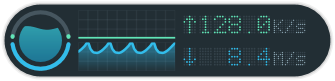
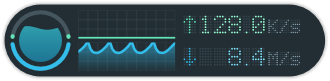
fix: narrow floating decimal cells and brighten numeric lamps
Use a centered 3x7 decimal cell and remove its two spare columns from
readout and window width. Increase numeric lamp luminance while retaining
fixed glyph anchors, ring/chart geometry and subdued unlit lamps.

Cover the 21 decimal lamps and brighter digits in renderer tests, refresh
visual evidence, and pass all eight Release CTest targets.

diff --git a/src/WinMon/FloatingRateRenderer.cpp b/src/WinMon/FloatingRateRenderer.cpp
@@ -15,7 +15,7 @@ constexpr float kRingRadius = (kRingDiameter - kRingStroke) / 2;
 float BodyRight(float progress) noexcept
 {
     const float chartRight = 27 + (kChartLeft + kChartWidth - 20) * kContentScale;
-    const float textRight = 27 + (126 - 20) * kContentScale;
+    const float textRight = 27 + (126 - 2 * 1.05f - 20) * kContentScale;
     return chartRight + 15 + (textRight - chartRight) * progress;
 }
 
@@ -350,15 +350,18 @@ bool FloatingRateRenderer::Render(const std::wstring& upload, const std::wstring
             {
                 const float pitch = cell < 6 ? 1.05f : 0.8f;
                 const auto* glyph = punctum::Find(characters[cell]);
+                const bool decimal = characters[cell] == L'.';
+                const int columns = decimal ? 3 : 5;
                 for (int row = 0; row < 7; ++row)
-                    for (int column = 0; column < 5; ++column)
+                    for (int column = 0; column < columns; ++column)
                     {
-                        const bool lit = glyph && (glyph->rows[row] & (1 << column));
-                        color(lit ? (cell < 6 ? rgb : 0x849da9) : 0x34424a, textProgress);
+                        const bool lit = glyph && (glyph->rows[row] & (1 << (column + (decimal ? 1 : 0))));
+                        const UINT32 digitColor = rgb == 0x61e5b7 ? 0x9affd4 : 0x80e4ff;
+                        color(lit ? (cell == 0 ? rgb : cell < 6 ? digitColor : 0x849da9) : 0x34424a, textProgress);
                         target_->FillEllipse(D2D1::Ellipse(D2D1::Point2F(x + column * pitch, baseline - (6 - row) * pitch),
                             pitch * 0.36f, pitch * 0.36f), brush_.Get());
                     }
-                x += 4 * pitch + ((cell == 0 || cell == 5) ? 2 * 1.05f : 1.5f * pitch);
+                x += (columns - 1) * pitch + ((cell == 0 || cell == 5) ? 2 * 1.05f : 1.5f * pitch);
             }
         };
         if (textProgress > 0) readout(upCells, 23.8f, 0x61e5b7);

diff --git a/tests/FloatingRateRendererTests/FloatingRateRendererTests.cpp b/tests/FloatingRateRendererTests/FloatingRateRendererTests.cpp
@@ -32,7 +32,7 @@ void SaveBitmap(const FloatingRateRenderer& renderer, const std::filesystem::pat
 }
 int main(int argc, char** argv)
 {
-    Require(FloatingRateRenderer::SizeForDpi(96).cx == 223 && FloatingRateRenderer::SizeForDpi(96).cy == 54,
+    Require(FloatingRateRenderer::SizeForDpi(96).cx == 220 && FloatingRateRenderer::SizeForDpi(96).cy == 54,
         "original ring and readable LED cells widen the window without changing height");
     FloatingRateRenderer renderer;
     const auto render = [&] { Require(renderer.Render(L"0.0 K/s", L"0.0 K/s", 96, 0.3, 0), "render"); };
@@ -139,6 +139,19 @@ int main(int argc, char** argv)
             const DWORD reserved=renderer.Pixels()[y*renderer.PixelSize().cx+leadingX];
             Require(reserved!=0xff222e34 && ((reserved>>8)&255)<100, "reserved integer cell has 35 dark lamps and no leading zero");
         }
+    for (int row = 0; row < 7; ++row)
+        for (int column = 0; column < 3; ++column)
+        {
+            const int x = static_cast<int>((27 + (100.625f + column * 1.05f - 20) * (37.0f * 12 / 11 / 24)) * 4);
+            const int y = static_cast<int>((27 + (23.8f - (6 - row) * 1.05f - 27) * (37.0f * 12 / 11 / 24)) * 4);
+            const DWORD pixel = renderer.Pixels()[y * renderer.PixelSize().cx + x];
+            Require(pixel != 0xff222e34, "decimal owns 21 lamps in a 3x7 cell");
+            Require((((pixel >> 8) & 255) > 100) == (row == 6 && column == 1), "decimal lights only its middle baseline lamp");
+        }
+    const int brightX = static_cast<int>((27 + (95.9f - 20) * (37.0f * 12 / 11 / 24)) * 4);
+    const int brightY = static_cast<int>((27 + (17.5f - 27) * (37.0f * 12 / 11 / 24)) * 4);
+    Require(((renderer.Pixels()[brightY * renderer.PixelSize().cx + brightX] >> 8) & 255) > 245,
+        "numeric bright lamps have stronger luminance than the original green");
     for(wchar_t digit=L'0';digit<=L'9';++digit)
         for(wchar_t unit : {L'K',L'M',L'G'})
         {

diff --git a/CONTEXT.md b/CONTEXT.md
@@ -13,9 +13,9 @@ The two-line Upload/Download Rate text embedded on the primary bottom taskbar on
 _Avoid_: taskbar window, widget, HUD, overlay (unless contrasting implementation), main UI
 
 **Floating Rate Display**:
-An optional, borderless, always-on-top dark capsule, approximately 217x48 DIP with speed text shown. Green upload and blue download semicircles fill symmetrically from their left and right ends toward the top/bottom midpoint. Their outer diameter and each chart's clip width have an exact 5:8 ratio. Independent, aligned upper/lower continuous trends have faint grids, clipped gradient fills, a 1.5 DIP center gap, and 32 real Rate Samples sharing the recent peak scale (minimum 1000 bytes/s, smoothing 0.35). The inner traveling water wave uses activity-dependent 2200–1000ms periods and a 15%–80% target level; idle water drains to zero. A shared approximately 30 FPS native timer animates water and text visibility without adding samples; hidden and settled idle displays stop it, and disabled Windows animations use static endpoints.
+An optional, borderless, always-on-top dark capsule, approximately 214x48 DIP with speed text shown. Green upload and blue download semicircles fill symmetrically from their left and right ends toward the top/bottom midpoint. Their outer diameter and each chart's clip width have an exact 5:8 ratio. Independent, aligned upper/lower continuous trends have faint grids, clipped gradient fills, a 1.5 DIP center gap, and 32 real Rate Samples sharing the recent peak scale (minimum 1000 bytes/s, smoothing 0.35). The inner traveling water wave uses activity-dependent 2200–1000ms periods and a 15%–80% target level; idle water drains to zero. A shared approximately 30 FPS native timer animates water and text visibility without adding samples; hidden and settled idle displays stop it, and disabled Windows animations use static endpoints.
 
-Each readout uses nine fixed Punctum LED cells (arrow, three right-aligned integer cells, decimal point, fraction, three unit cells). Every cell has 35 round lamps, including dim leading numeric cells; gaps have no lamps. Embedded OFL glyph masks render independently of Rate Font, without font installation. Values beyond the three-digit capacity saturate at 999.9 in the core-selected unit, leaving Rate Strip formatting unchanged. Show Floating Speed Text fades both complete readouts and their dim lamps while narrowing the actual capsule to ring and unchanged charts; showing restores width. Transitions use reversible ease-out cubic, 220ms hiding/180ms showing, and share the water timer. The current body and separate input-transparent shadow resize together, retaining fixed chart geometry and DPI scaling. The surface has no taskbar or Alt-Tab entry, drags without activation, and opens the Operator Menu on right-click. It remains available while the Rate Strip is hidden. Network changes reset graphical history/activity. Visibility, text visibility and desktop position persist; first use or an unusable restored position uses the primary work area's upper-right corner. Expansion constrains the changing geometry to the monitor work area.
+Each readout uses nine fixed Punctum LED cells (arrow, three right-aligned integer cells, decimal point, fraction, three unit cells). The decimal cell has 21 round lamps (3x7); the other cells have 35 (5x7), including dim leading numeric cells; gaps have no lamps. Embedded OFL glyph masks render independently of Rate Font, without font installation. Values beyond the three-digit capacity saturate at 999.9 in the core-selected unit, leaving Rate Strip formatting unchanged. Show Floating Speed Text fades both complete readouts and their dim lamps while narrowing the actual capsule to ring and unchanged charts; showing restores width. Transitions use reversible ease-out cubic, 220ms hiding/180ms showing, and share the water timer. The current body and separate input-transparent shadow resize together, retaining fixed chart geometry and DPI scaling. The surface has no taskbar or Alt-Tab entry, drags without activation, and opens the Operator Menu on right-click. It remains available while the Rate Strip is hidden. Network changes reset graphical history/activity. Visibility, text visibility and desktop position persist; first use or an unusable restored position uses the primary work area's upper-right corner. Expansion constrains the changing geometry to the monitor work area.
 
 _Avoid_: floating window, dashboard, overlay, main window
 

diff --git a/docs/adr/0008-floating-rate-display.md b/docs/adr/0008-floating-rate-display.md
@@ -6,4 +6,4 @@ The display uses Direct2D software rendering into a per-pixel-alpha layered wind
 
 Rate Samples remain once per second. A separate approximately 30 FPS timer animates traveling water and reversible text-width transitions, stopping when idle with no transition or when hidden, and respecting Windows' animation preference. Reusable glyph data, sample geometry, shadow pixels and presentation buffers keep animation frames from rebuilding unchanged resources; combined preview pixels are generated only when requested.
 
-Extension (2026-10-11; [spec](../../.scratch/floating-led-display/spec.md)): semicircles fill from both endpoints, trends use independent clipped regions and a 32-sample scale, and chart width is exactly 1.6 times outer ring diameter at every DPI and visibility state. Each readout has nine fixed 35-lamp cells, capacity 999.9. Show Floating Speed Text resizes both actual layered windows while fading all lamps, using the existing native animation timer and Windows animation preference. It replaces the previous shared-font and hover-readout conventions.
+Extension (2026-10-11; [spec](../../.scratch/floating-led-display/spec.md)): semicircles fill from both endpoints, trends use independent clipped regions and a 32-sample scale, and chart width is exactly 1.6 times outer ring diameter at every DPI and visibility state. Each readout has nine fixed cells, capacity 999.9: the decimal uses 21 lamps (3x7), other cells use 35 (5x7). Show Floating Speed Text resizes both actual layered windows while fading all lamps, using the existing native animation timer and Windows animation preference. It replaces the previous shared-font and hover-readout conventions.

diff --git a/README.md b/README.md
@@ -85,7 +85,7 @@ build/Release/WinMon.exe
 
 - 深色胶囊左侧为绿／蓝上下半环，从各自左右端同时向中点填充；内部水波按网络相对活动改变速度和水位。
 - 上传／下载连续曲线分区排列，带淡网格与渐变，严格限制在各自区域内。圆环外径与图表宽度保持 5:8，显示最近 32 次采样。
-- 读数采用内置 Punctum 点阵，每行九个固定字符位，每格 35 盏亮／暗圆灯。数值上限为 999.9，超出时按当前单位饱和显示；任务栏格式化不受影响。
+- 读数采用内置 Punctum 点阵，每行九个固定字符位，小数点为 3×7（21 盏灯），其他字符为 5×7（35 盏灯）。数值上限为 999.9，超出时按当前单位饱和显示；任务栏格式化不受影响。
 - **Show Floating Speed Text** 默认开启，关闭时两行读数与暗灯一起淡出，胶囊平滑收窄；打开时展开并淡入。圆环与图表尺寸保持不变，快速切换可以反向过渡，设置跨重启保存。
 - 右键打开同一菜单，拖动不激活窗口，阴影点击穿透。禁用 Windows 动画时立即切换。
 - **Set Font...** 仅调整任务栏文字，悬浮窗始终采用固定 LED 字形，无需安装字体；发行包附带 Punctum 的 SIL OFL 许可。

diff --git a/.scratch/floating-led-display/implementation.md b/.scratch/floating-led-display/implementation.md
@@ -22,3 +22,5 @@ Two-axis code review found one rollback issue and one final-position persistence
 Physical cross-monitor DPI migration and dragging during a real DPI switch were not exercised because only the available monitor was used. The remaining small-display readability judgement should be checked on the user's preferred monitor; render geometry is DPI-scaled and tested offscreen. GitHub release publication and restart of the user's running instance were not performed; CMake copies OFL to the executable directory and the release workflow includes it in the zip.
 
 Correction: restored pre-redesign ring diameter and stroke width, expanded charts at 5:8 and LED pitch by about 68%. Window height remains 48 DIP; visible body grows to approximately 217 DIP. Refreshed all visual evidence.
+
+Decimal refinement: cropped the decimal to its middle three columns (21 lamps), preserving baseline and fixed slots. Numeric lamps now use brighter green/blue, with arrows, units and dark lamps unchanged. Removed two dot-pitch columns from text/window width; refreshed all evidence. Release x64 and all eight CTest targets passed.
